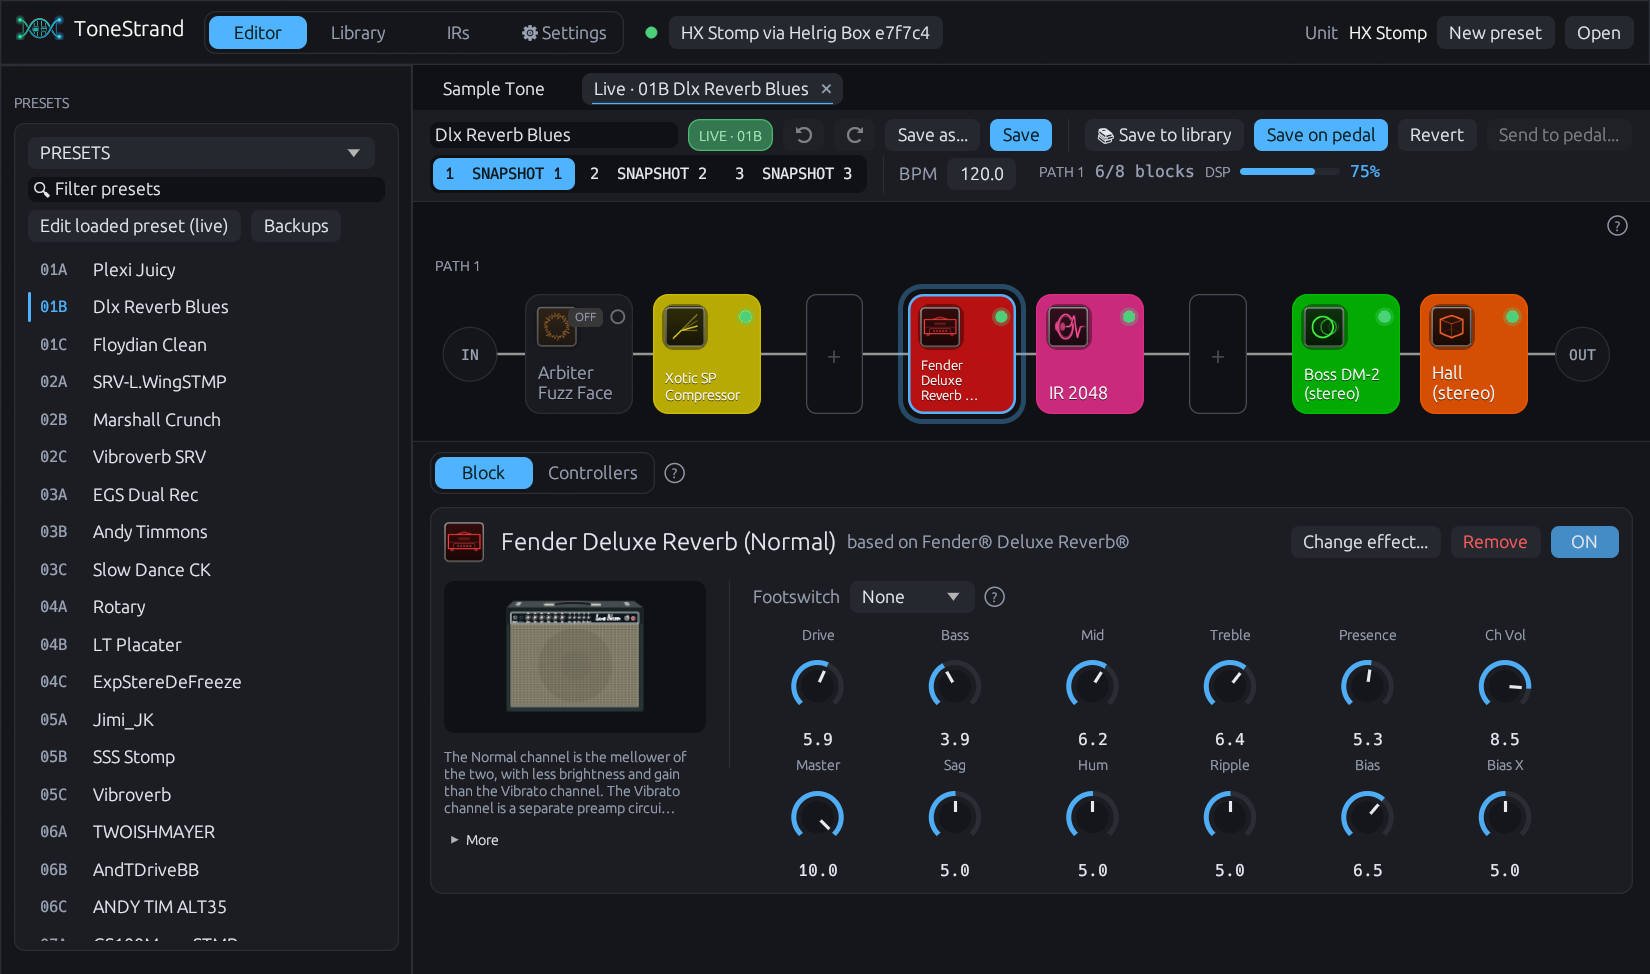
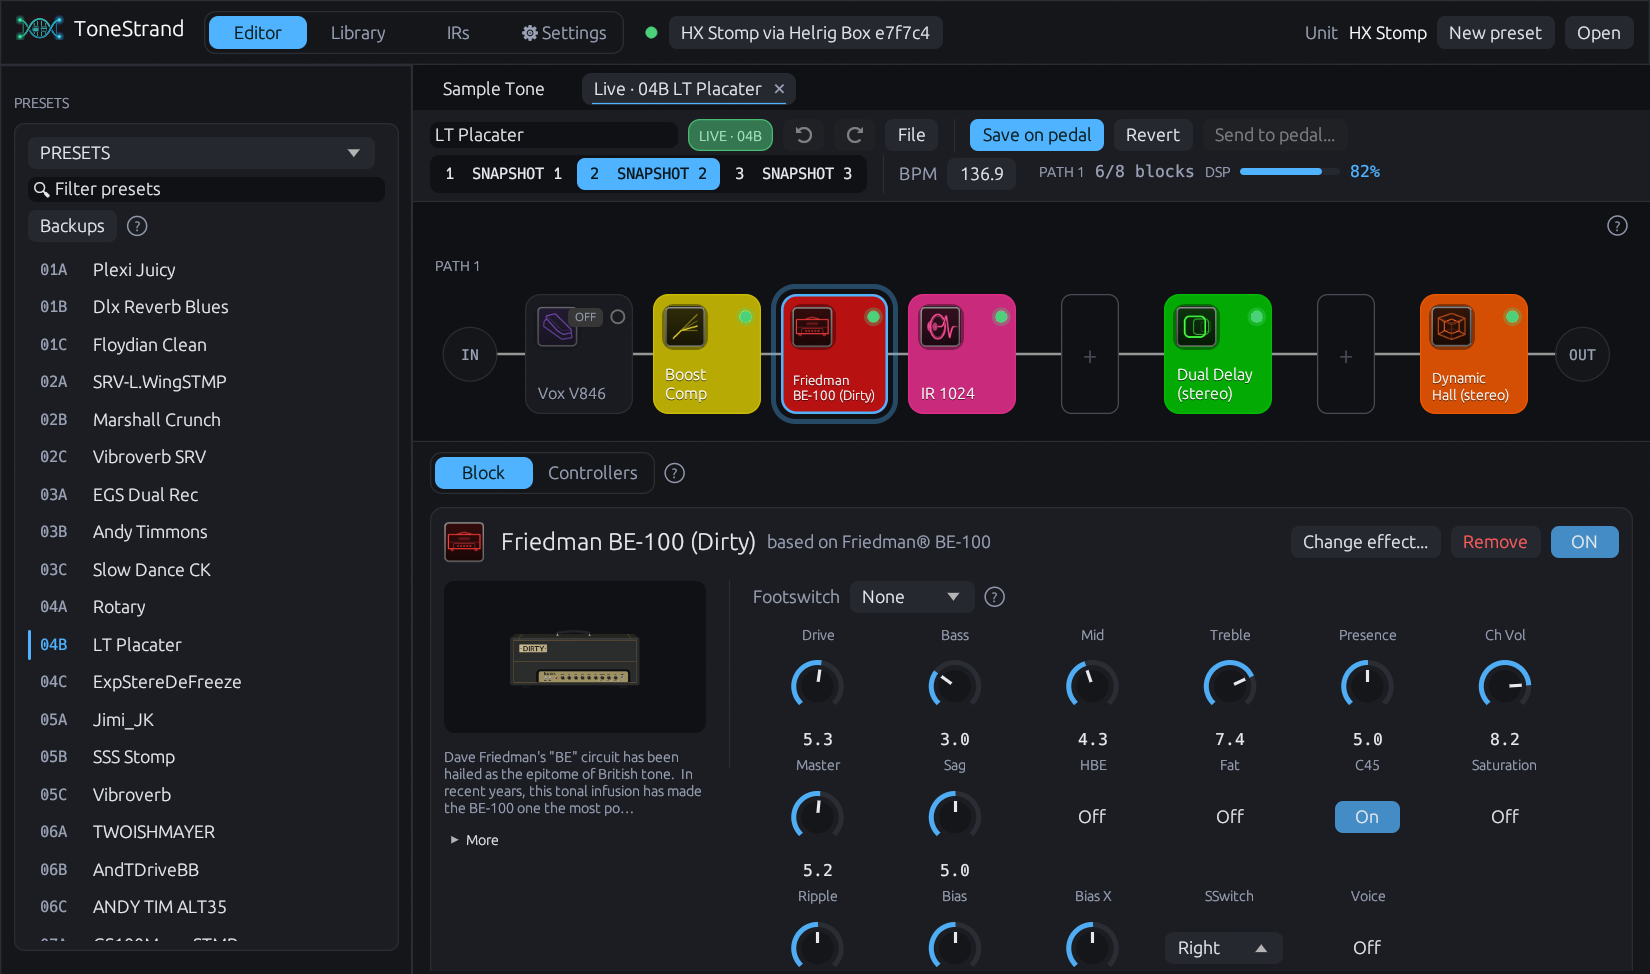
Details pane names, shared name-size floor, README image and docs
- The picker's details pane always names the effect (list name and
  other name) and says when there is no description.
- The shared chain name size never goes below 12.5; only a long name
  shrinks further on its own.
- README: pedal preset copy/swap/move; new editor screenshot (live
  preset, File menu, Backups menu); AGENTS.md test count; review status.

diff --git a/src/editors/mod.rs b/src/editors/mod.rs
@@ -211,8 +211,8 @@ pub struct PickerState {
     pub category: String,
     pub sub: String,
     pub search: String,
-    /// The effect the pointer was last over (its description shows under the list).
-    pub hover: Option<String>,
+    /// The effect the pointer was last over (symbol and names; its description shows under the list).
+    pub hover: Option<(String, String)>,
     /// The search box has been given the focus (once, when the window opens).
     pub focused: bool,
 }
@@ -255,6 +255,9 @@ pub fn picker_window(ctx: &egui::Context, state: &mut Option<PickerState>, cat: 
                         r.request_focus();
                         st.focused = true;
                     }
+                    if r.changed() {
+                        st.hover = None;
+                    }
                 });
             });
             ui.separator();
@@ -277,6 +280,7 @@ pub fn picker_window(ctx: &egui::Context, state: &mut Option<PickerState>, cat: 
                                     st.category = name.clone();
                                     st.sub.clear();
                                     st.search.clear();
+                                    st.hover = None;
                                 }
                                 // The counts line up on the right.
                                 ui.with_layout(egui::Layout::right_to_left(egui::Align::Center), |ui| {
@@ -319,6 +323,7 @@ pub fn picker_window(ctx: &egui::Context, state: &mut Option<PickerState>, cat: 
                     }
                     // The first effect that fits: Enter takes it while searching.
                     let mut first: Option<(i64, Option<i64>)> = None;
+                    let mut first_pane: Option<(String, String)> = None;
                     let mut row_no = 0usize;
                     egui::ScrollArea::vertical().id_salt("pick-models").max_height(340.0).auto_shrink([false, false]).show(ui, |ui| {
                         for g in groups.iter().filter(|g| !search.is_empty() || groups.len() == 1 || g.sub == st.sub) {
@@ -360,8 +365,14 @@ pub fn picker_window(ctx: &egui::Context, state: &mut Option<PickerState>, cat: 
                                 if resp.hovered() && fits {
                                     p.rect_filled(rect, CornerRadius::same(6), card_hi());
                                 }
+                                // The names for the details pane: the one in the list and its other name.
+                                let pane_names = match crate::realnames::other(&m.name) {
+                                    Some(o) => format!("{}  ·  {o}", crate::realnames::show(&m.name)),
+                                    None => crate::realnames::show(&m.name),
+                                };
                                 if first.is_none() && fits {
                                     first = Some((m.number, paired));
+                                    first_pane = cat.symbol(m.number).map(|s| (s.to_owned(), pane_names.clone()));
                                     if !search.is_empty() {
                                         p.rect_stroke(
                                             rect,
@@ -372,7 +383,7 @@ pub fn picker_window(ctx: &egui::Context, state: &mut Option<PickerState>, cat: 
                                     }
                                 }
                                 if resp.hovered() {
-                                    st.hover = cat.symbol(m.number).map(str::to_owned);
+                                    st.hover = cat.symbol(m.number).map(|s| (s.to_owned(), pane_names.clone()));
                                 }
                                 // The effect's own kind (Fuzz, Tape, Plate, Chorus...) from the Stadium icons;
                                 // a colour square only when its type has none.
@@ -431,11 +442,11 @@ pub fn picker_window(ctx: &egui::Context, state: &mut Option<PickerState>, cat: 
                     }
                     // What the effect under the pointer is, in a few lines.
                     ui.separator();
-                    let shown = st.hover.clone().or_else(|| first.and_then(|(n, _)| cat.symbol(n).map(str::to_owned)));
+                    let shown = st.hover.clone().or(first_pane);
                     ui.allocate_ui(Vec2::new(ui.available_width(), 84.0), |ui| {
                         ui.set_min_height(84.0);
-                        match shown.as_deref() {
-                            Some(sym) => crate::modelinfo::summary(ui, sym),
+                        match shown.as_ref() {
+                            Some((sym, names)) => crate::modelinfo::summary(ui, sym, names),
                             None => {
                                 ui.label(RichText::new("Point at an effect to see what it is.").small().color(MUTED));
                             }
@@ -1060,23 +1071,26 @@ pub fn footswitch_strip(ui: &mut egui::Ui, count: usize, items: &[FootswitchItem
                     .show(ui, |ui| {
                         ui.set_width(w - 18.0);
                         ui.set_min_height(48.0);
-                        ui.label(RichText::new(format!("FS {n}")).strong().color(if mine.is_empty() { MUTED } else { ORANGE }));
-                        if mine.is_empty() {
-                            ui.label(RichText::new("free").small().color(MUTED));
-                        }
-                        for (_, text, on) in mine {
-                            ui.horizontal(|ui| {
-                                if let Some(on) = on {
-                                    let (r, _) = ui.allocate_exact_size(Vec2::splat(8.0), egui::Sense::hover());
-                                    if *on {
-                                        ui.painter().circle_filled(r.center(), 3.5, GOOD);
-                                    } else {
-                                        ui.painter().circle_stroke(r.center(), 3.0, Stroke::new(1.0_f32, MUTED));
+                        // (the strip itself is a row, so each cell stacks its own lines)
+                        ui.vertical(|ui| {
+                            ui.label(RichText::new(format!("FS {n}")).strong().color(if mine.is_empty() { MUTED } else { ORANGE }));
+                            if mine.is_empty() {
+                                ui.label(RichText::new("free").small().color(MUTED));
+                            }
+                            for (_, text, on) in mine {
+                                ui.horizontal(|ui| {
+                                    if let Some(on) = on {
+                                        let (r, _) = ui.allocate_exact_size(Vec2::splat(8.0), egui::Sense::hover());
+                                        if *on {
+                                            ui.painter().circle_filled(r.center(), 3.5, GOOD);
+                                        } else {
+                                            ui.painter().circle_stroke(r.center(), 3.0, Stroke::new(1.0_f32, MUTED));
+                                        }
                                     }
-                                }
-                                ui.add(egui::Label::new(RichText::new(text).small()).truncate());
-                            });
-                        }
+                                    ui.add(egui::Label::new(RichText::new(text).small()).truncate());
+                                });
+                            }
+                        });
                     });
             });
         }

diff --git a/src/modelinfo.rs b/src/modelinfo.rs
@@ -147,16 +147,17 @@ pub fn side(ui: &mut egui::Ui, symbol: &str, width: f32, cab: Option<&str>) {
 /// A tooltip for the effect picker: photo, based-on line and the first lines of the description.
 /// A compact description for a pane under a list: the picture beside what it is based on and
 /// the first lines of its description.
-pub fn summary(ui: &mut egui::Ui, symbol: &str) {
-    let Some(i) = info(symbol) else {
-        ui.label(RichText::new("No description for this effect.").small().color(MUTED));
-        return;
-    };
+pub fn summary(ui: &mut egui::Ui, symbol: &str, names: &str) {
+    let i = info(symbol).cloned().unwrap_or_default();
     ui.horizontal_top(|ui| {
         if let Some(t) = photo(ui.ctx(), symbol) {
             image(ui, &t, Vec2::new(120.0, 66.0));
         }
         ui.vertical(|ui| {
+            ui.label(RichText::new(names).strong());
+            if i.based_on.is_none() && i.description.is_none() {
+                ui.label(RichText::new("No description for this effect.").small().color(MUTED));
+            }
             if let Some(b) = &i.based_on {
                 ui.label(RichText::new(format!("Based on {b}")).strong());
             }

diff --git a/src/chain.rs b/src/chain.rs
@@ -484,7 +484,9 @@ impl Chain<'_> {
                     }
                     _ => None,
                 })
-                .fold(14.5_f32, f32::min);
+                .fold(14.5_f32, f32::min)
+                // A floor: short names stay readable; only a long one goes smaller on its own.
+                .max(12.5);
             NAME_SIZE.with(|c| c.set(Some(lane_size)));
             let range = if lane == 0 { 0..cols } else { self.split..lower_end };
             // The lower lane shows its effects and one free place after them; past that the

diff --git a/docs/ARCHITECTURE.md b/docs/ARCHITECTURE.md
@@ -39,7 +39,7 @@ thread. Everything else is plain data structures edited in place every frame.
 | `units.rs` | Converting a `.hlx` to another unit with a report of everything that doesn't fit. |
 | `devpreset.rs` | `DevicePreset`: the pedal's own document (parse/encode byte-for-byte), slots, values, snapshots, controllers, footswitches, split/merge attach, `.hlx` → pedal conversion. |
 | `catalog.rs` | Effect catalog read from HX Edit's installed files: model numbers ↔ symbols, names, categories, colours, parameters with display formatting, DSP loads, picker groups. |
-| `device.rs` | The pedal thread: `Cmd` (UI → thread) and `Event` (thread → UI); heartbeat, recovery after failures, IR kind sorting. |
+| `device.rs` | The pedal thread: `Cmd` (UI → thread) and `Event` (thread → UI); heartbeat, recovery after failures, IR kind sorting; `slot_op` copies, moves and swaps preset slots (backup first, read-back check, tested in `fakepedal.rs`). |
 | `session.rs` | One conversation with the pedal over any `Wire`: handshake, services, chunked sends, acks, request/reply matching, high-level operations (presets, slots, live edits, IRs, controllers). |
 | `proto.rs` | Frame and channel header encoding, opcode and key constants, slot labels. |
 | `msgpack.rs` | MessagePack codec that remembers each value's original format byte so documents re-encode identically. |

diff --git a/docs/CODE_REVIEW.md b/docs/CODE_REVIEW.md
@@ -134,3 +134,12 @@ Severity: **High** = can lose the owner's data or break a project rule;
 > F1 shortcuts window; the Activity button turns red when something went wrong; a Getting
 > started card; a Revert button and a brief "sent" label on the live preset. Not done (bigger
 > features): compare presets, light theme, accessibility work, Box token storage.
+
+> **Second UX pass (branch `feature/ux-polish-2`), from a review of screens not seen before:**
+> one File menu for a live preset's file/library saves (Save on pedal is the one prominent save);
+> picker with "Path 1, slot 3", keyboard flow (cursor in search, Enter takes the first match, Esc
+> closes), a details pane, aligned counts and tooltips; framed search boxes; a "Sort" label;
+> painted folder icons; the pedal list panel hidden on Library / IRs / Settings without a pedal;
+> one name size per chain row (floor 12.5); the Controllers header count matches its tabs;
+> drag a preset onto another slot to copy, swap or move it (tested against a fake pedal only);
+> a footswitch strip on the Controllers tab.

diff --git a/README.md b/README.md
@@ -36,6 +36,8 @@ The effect pictures and names come from Line 6; see "Third-party material" below
   there or add an effect / FX loop / send / return, right-click menus, keyboard shortcuts
   (Space on/off, Enter change, Delete remove, arrows to select); Ctrl+O / N / W, Ctrl+Tab for
   presets, F2 to rename, Ctrl+S to save, Ctrl+Z / Y for undo and redo; F1 lists them all.
+- **Pedal presets**: drag one preset onto another slot to copy, swap or move it (the slot it
+  replaces is backed up first and the write is read back).
 - **Snapshots**: recall, rename, copy/paste, duplicate, delete; per-snapshot knob values.
 - **Controllers**: footswitches, expression pedals, snapshots, MIDI CC and (for `.hlx`) Command
   Center, both on files and live on the pedal.

diff --git a/AGENTS.md b/AGENTS.md
@@ -8,7 +8,7 @@ Read this first, then `docs/ARCHITECTURE.md`. The protocol and formats are in
 ```sh
 cargo build                     # debug (optimised enough to use)
 cargo build --release
-cargo test                      # 52 tests; must stay green
+cargo test                      # 58 tests; must stay green
 cargo fmt                       # rustfmt.toml sets the style; CI runs `cargo fmt --check`
 cargo clippy --all-targets -- -D warnings   # must stay clean (CI runs these)
 cargo run -- --help             # the command-line tools
